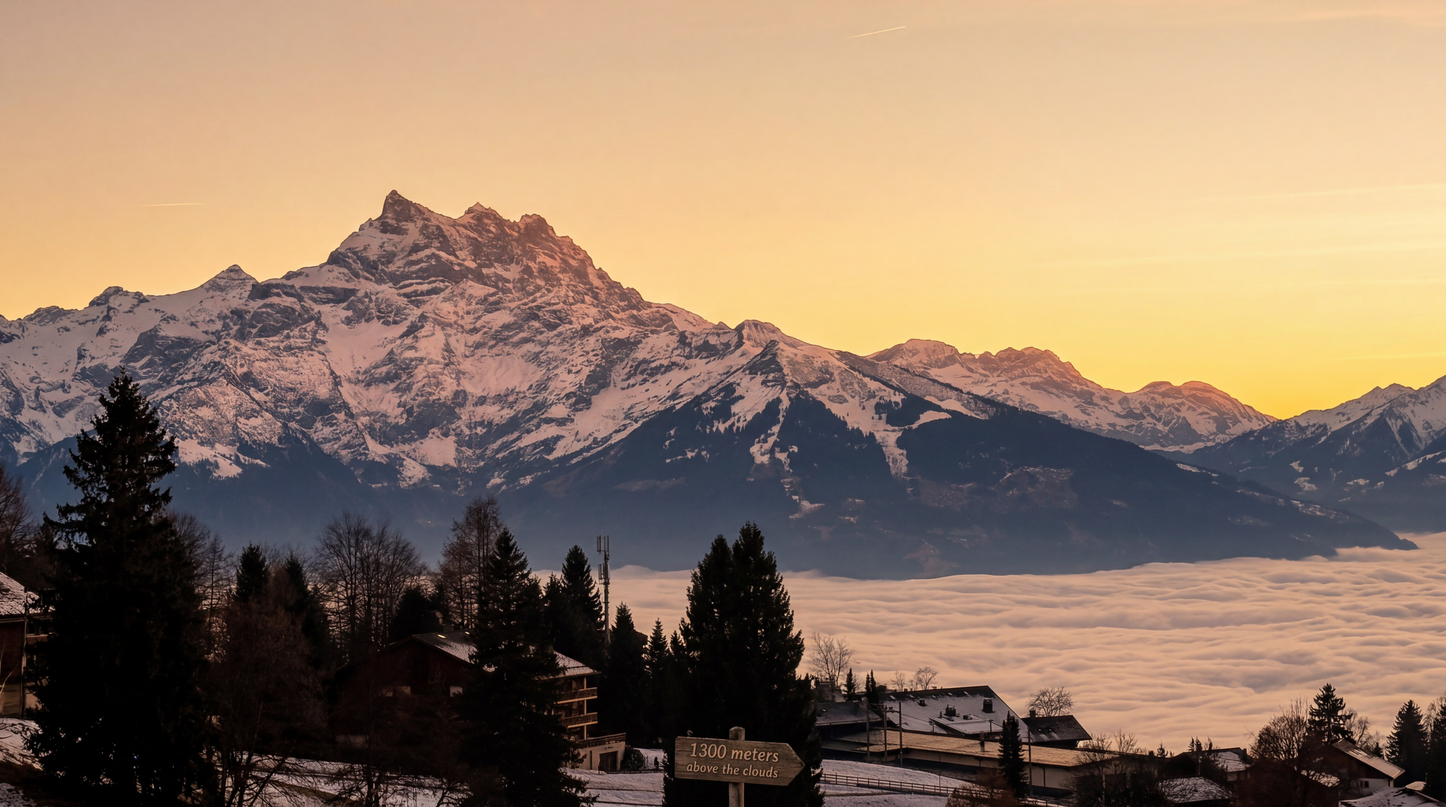
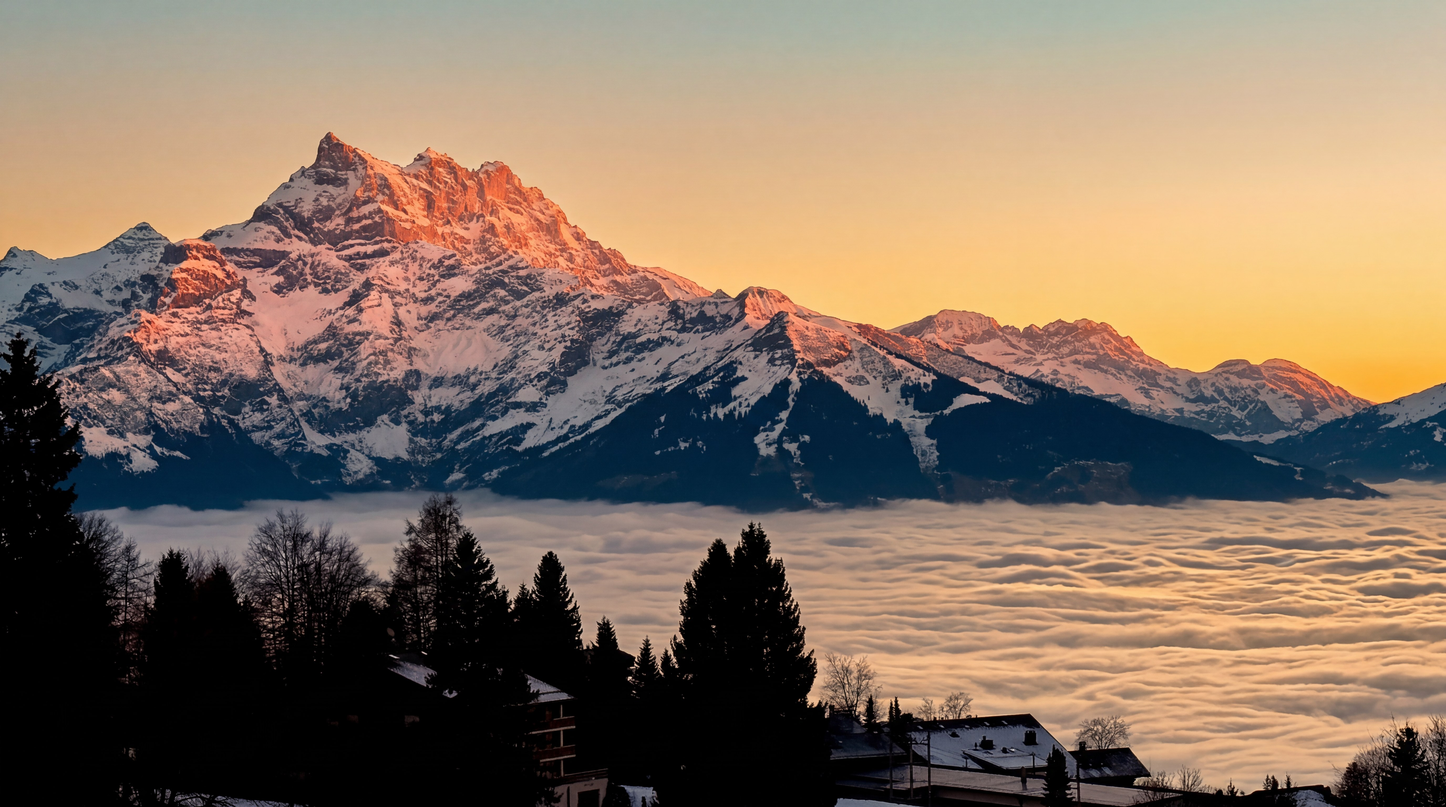
feat: upgrade site imagery with AI-generated photos
- Alpine Reset: lake at dawn replaces personal hiking photo
- Winter Escape: ski slopes at sunset with alpenglow
- Cinematic Weekend: winding alpine road with hairpin turns
- Manifesto section: cinematic aerial village at sunrise
- Hero "Above the clouds": regenerated without AI text artifacts
- New assets: loft interior (fireplace), Lavaux vineyards sunset

diff --git a/src/data/packages.ts b/src/data/packages.ts
@@ -40,8 +40,7 @@ export const packages: PackageData[] = [
     highlights: ["Perfect for solo travellers & couples", "Available year-round", "Minimum altitude: 1,300m"],
     groupSize: "1 – 4 guests",
     availability: "Year-round",
-    image: "/images/caueh-vidal-spring.jpg",
-    imagePosition: "object-[center_25%]",
+    image: "/images/villars/alpine-reset-lake.jpeg",
   },
   {
     id: "winter-escape",
@@ -66,7 +65,7 @@ export const packages: PackageData[] = [
     highlights: ["Solo-friendly & great for couples", "Ski-in access", "Authentic, not resort-like"],
     groupSize: "1 – 4 guests",
     availability: "December — March",
-    image: "/images/villars/ski-villars-slopes.jpeg",
+    image: "/images/villars/winter-escape-ski-sunset.jpeg",
   },
   {
     id: "cinematic-weekend",
@@ -90,7 +89,7 @@ export const packages: PackageData[] = [
     highlights: ["Unique to Swissperiences", "Solo or duo — your story, your pace", "Professional 4K footage"],
     groupSize: "1 – 4 guests",
     availability: "April — November (weather dependent)",
-    image: "/images/drone/lake-brienz-aerial.jpg",
+    image: "/images/drone/cinematic-alpine-road.jpeg",
   },
   {
     id: "grand-tour",

diff --git a/src/pages/Index.tsx b/src/pages/Index.tsx
@@ -347,7 +347,7 @@ const Index = () => {
       >
         <div className="absolute inset-0">
           <img
-            src="/images/villars-sunrise.jpg"
+            src="/images/villars/manifesto-village-aerial.jpeg"
             alt="Sunrise over the Alps"
             className="w-full h-full object-cover opacity-30"
             loading="lazy"
